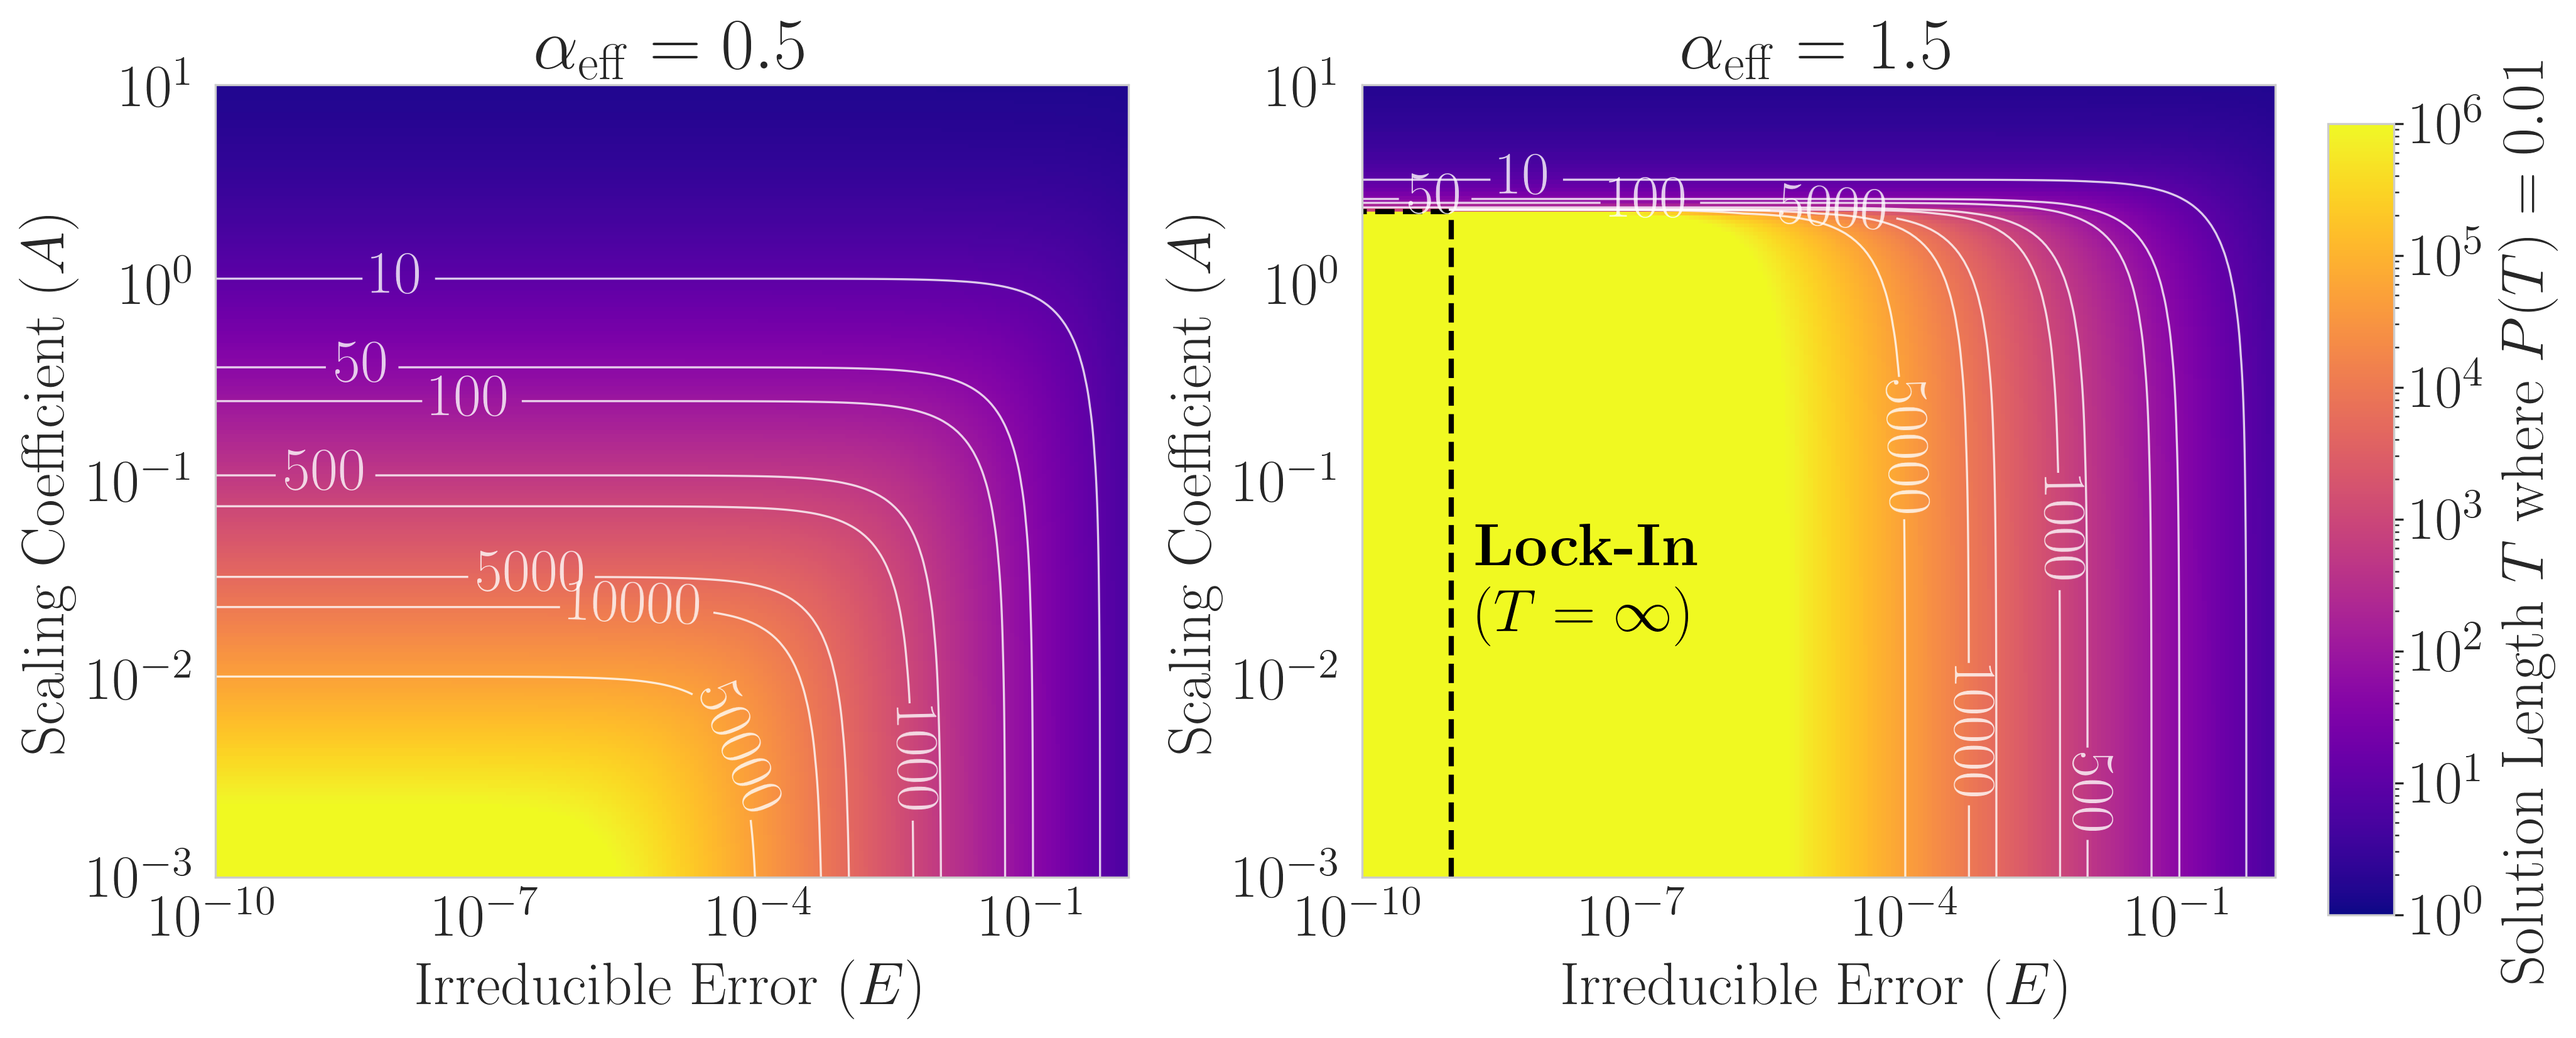
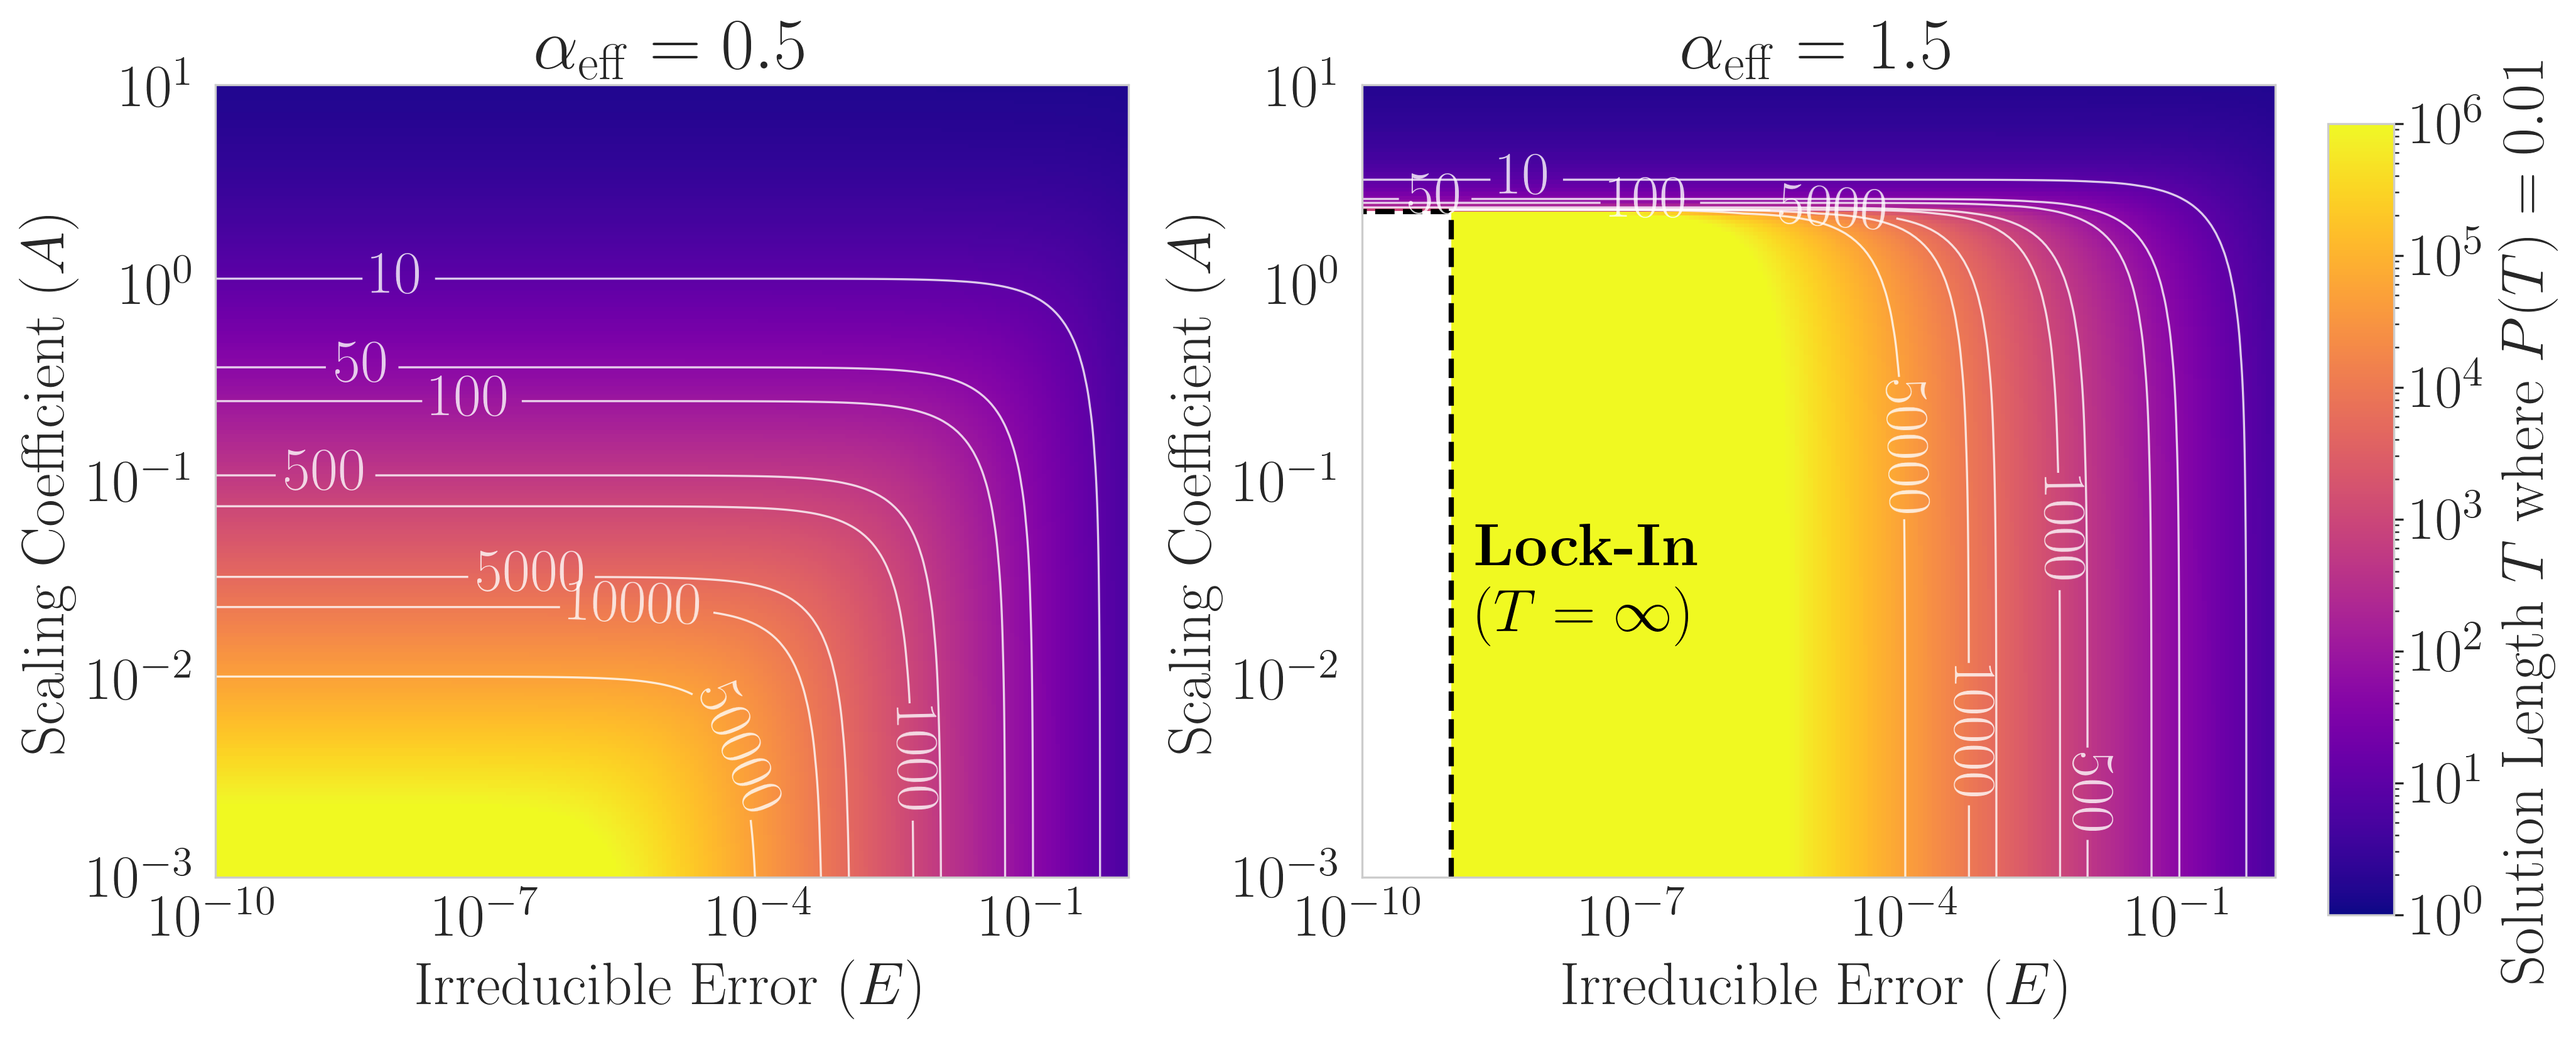
Make lock-in region white in phase diagram
Changed the lock-in region (T = infinity) from yellow to white
for better visual distinction from the colormap.

Changed region(s): [[0.5305, 0.1851, 0.5617, 0.8639]]

diff --git a/notebooks/50_phase_diagram/50_phase_diagram.py b/notebooks/50_phase_diagram/50_phase_diagram.py
@@ -153,8 +153,16 @@ for idx, (alpha, T_grid) in enumerate(zip(alpha_values, all_T_grids)):
         rasterized=True,
     )
 
-    # Overlay lock-in region with hatching or distinct marking
+    # Overlay lock-in region with white fill
     if np.any(lock_in_mask):
+        # Fill the lock-in region with white
+        ax.contourf(
+            E_grid,
+            A_grid,
+            lock_in_mask.astype(float),
+            levels=[0.5, 1.5],
+            colors=["white"],
+        )
         # Draw contour around the lock-in region
         ax.contour(
             E_grid,
